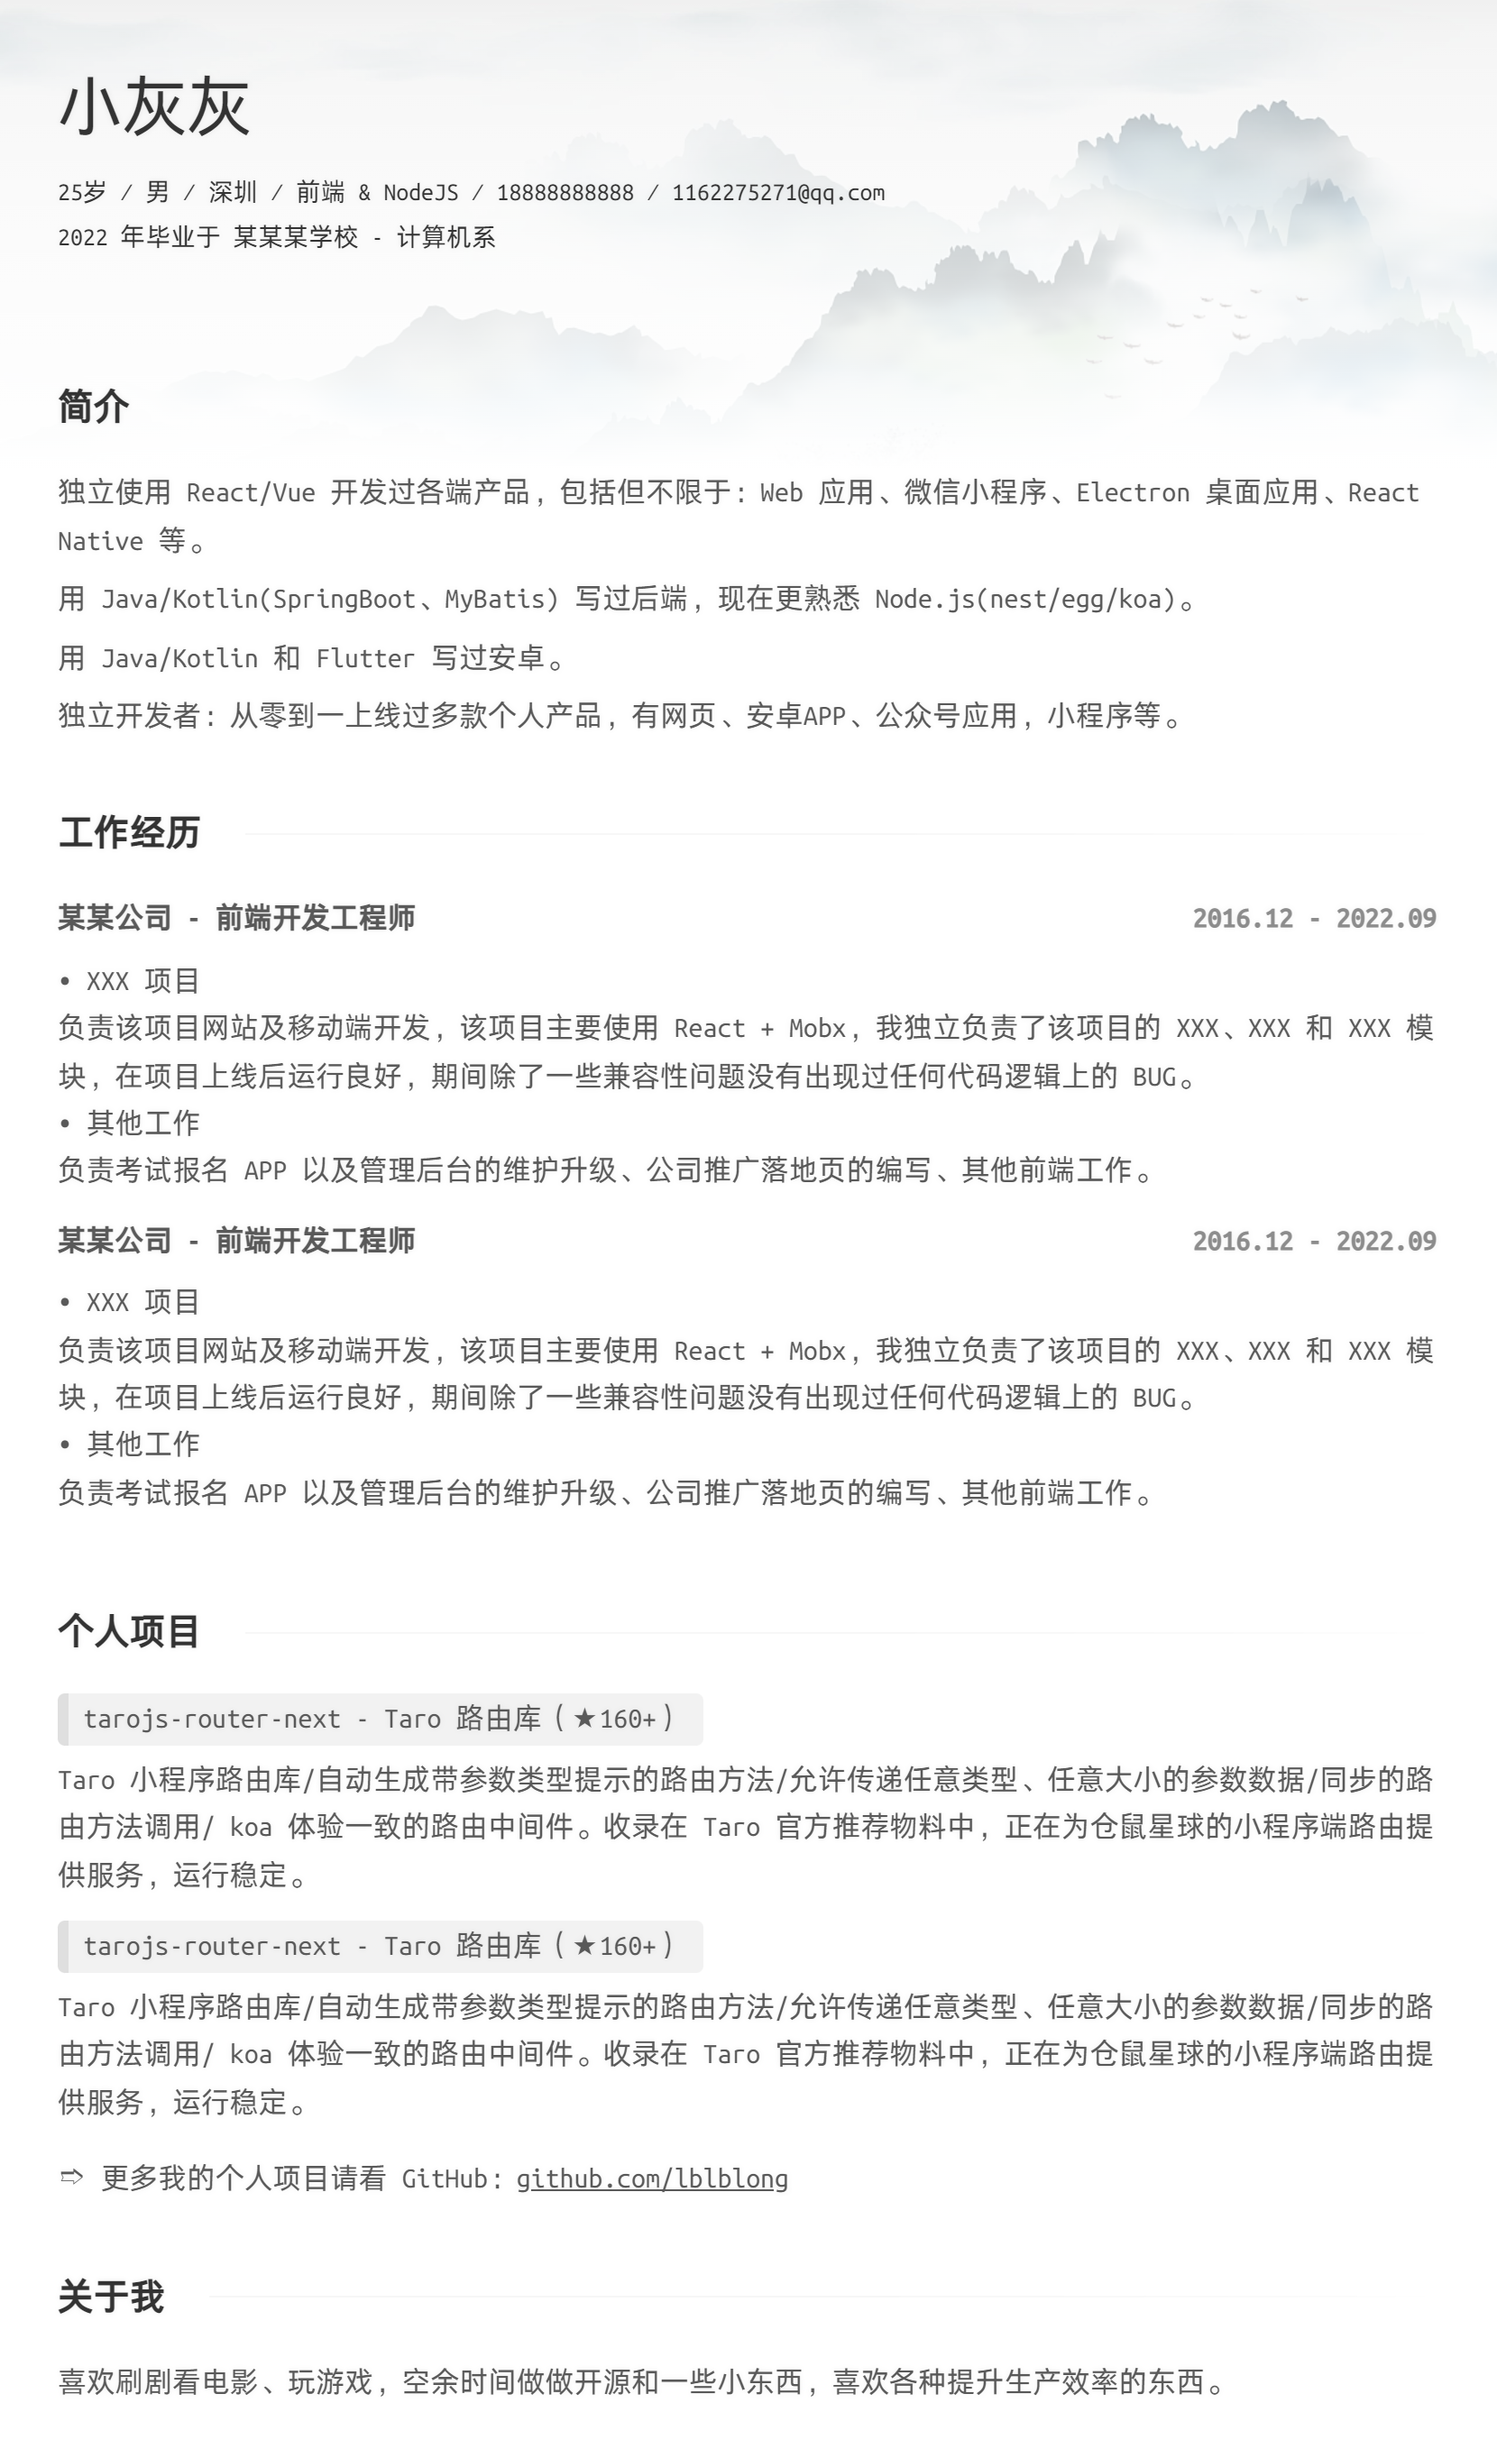
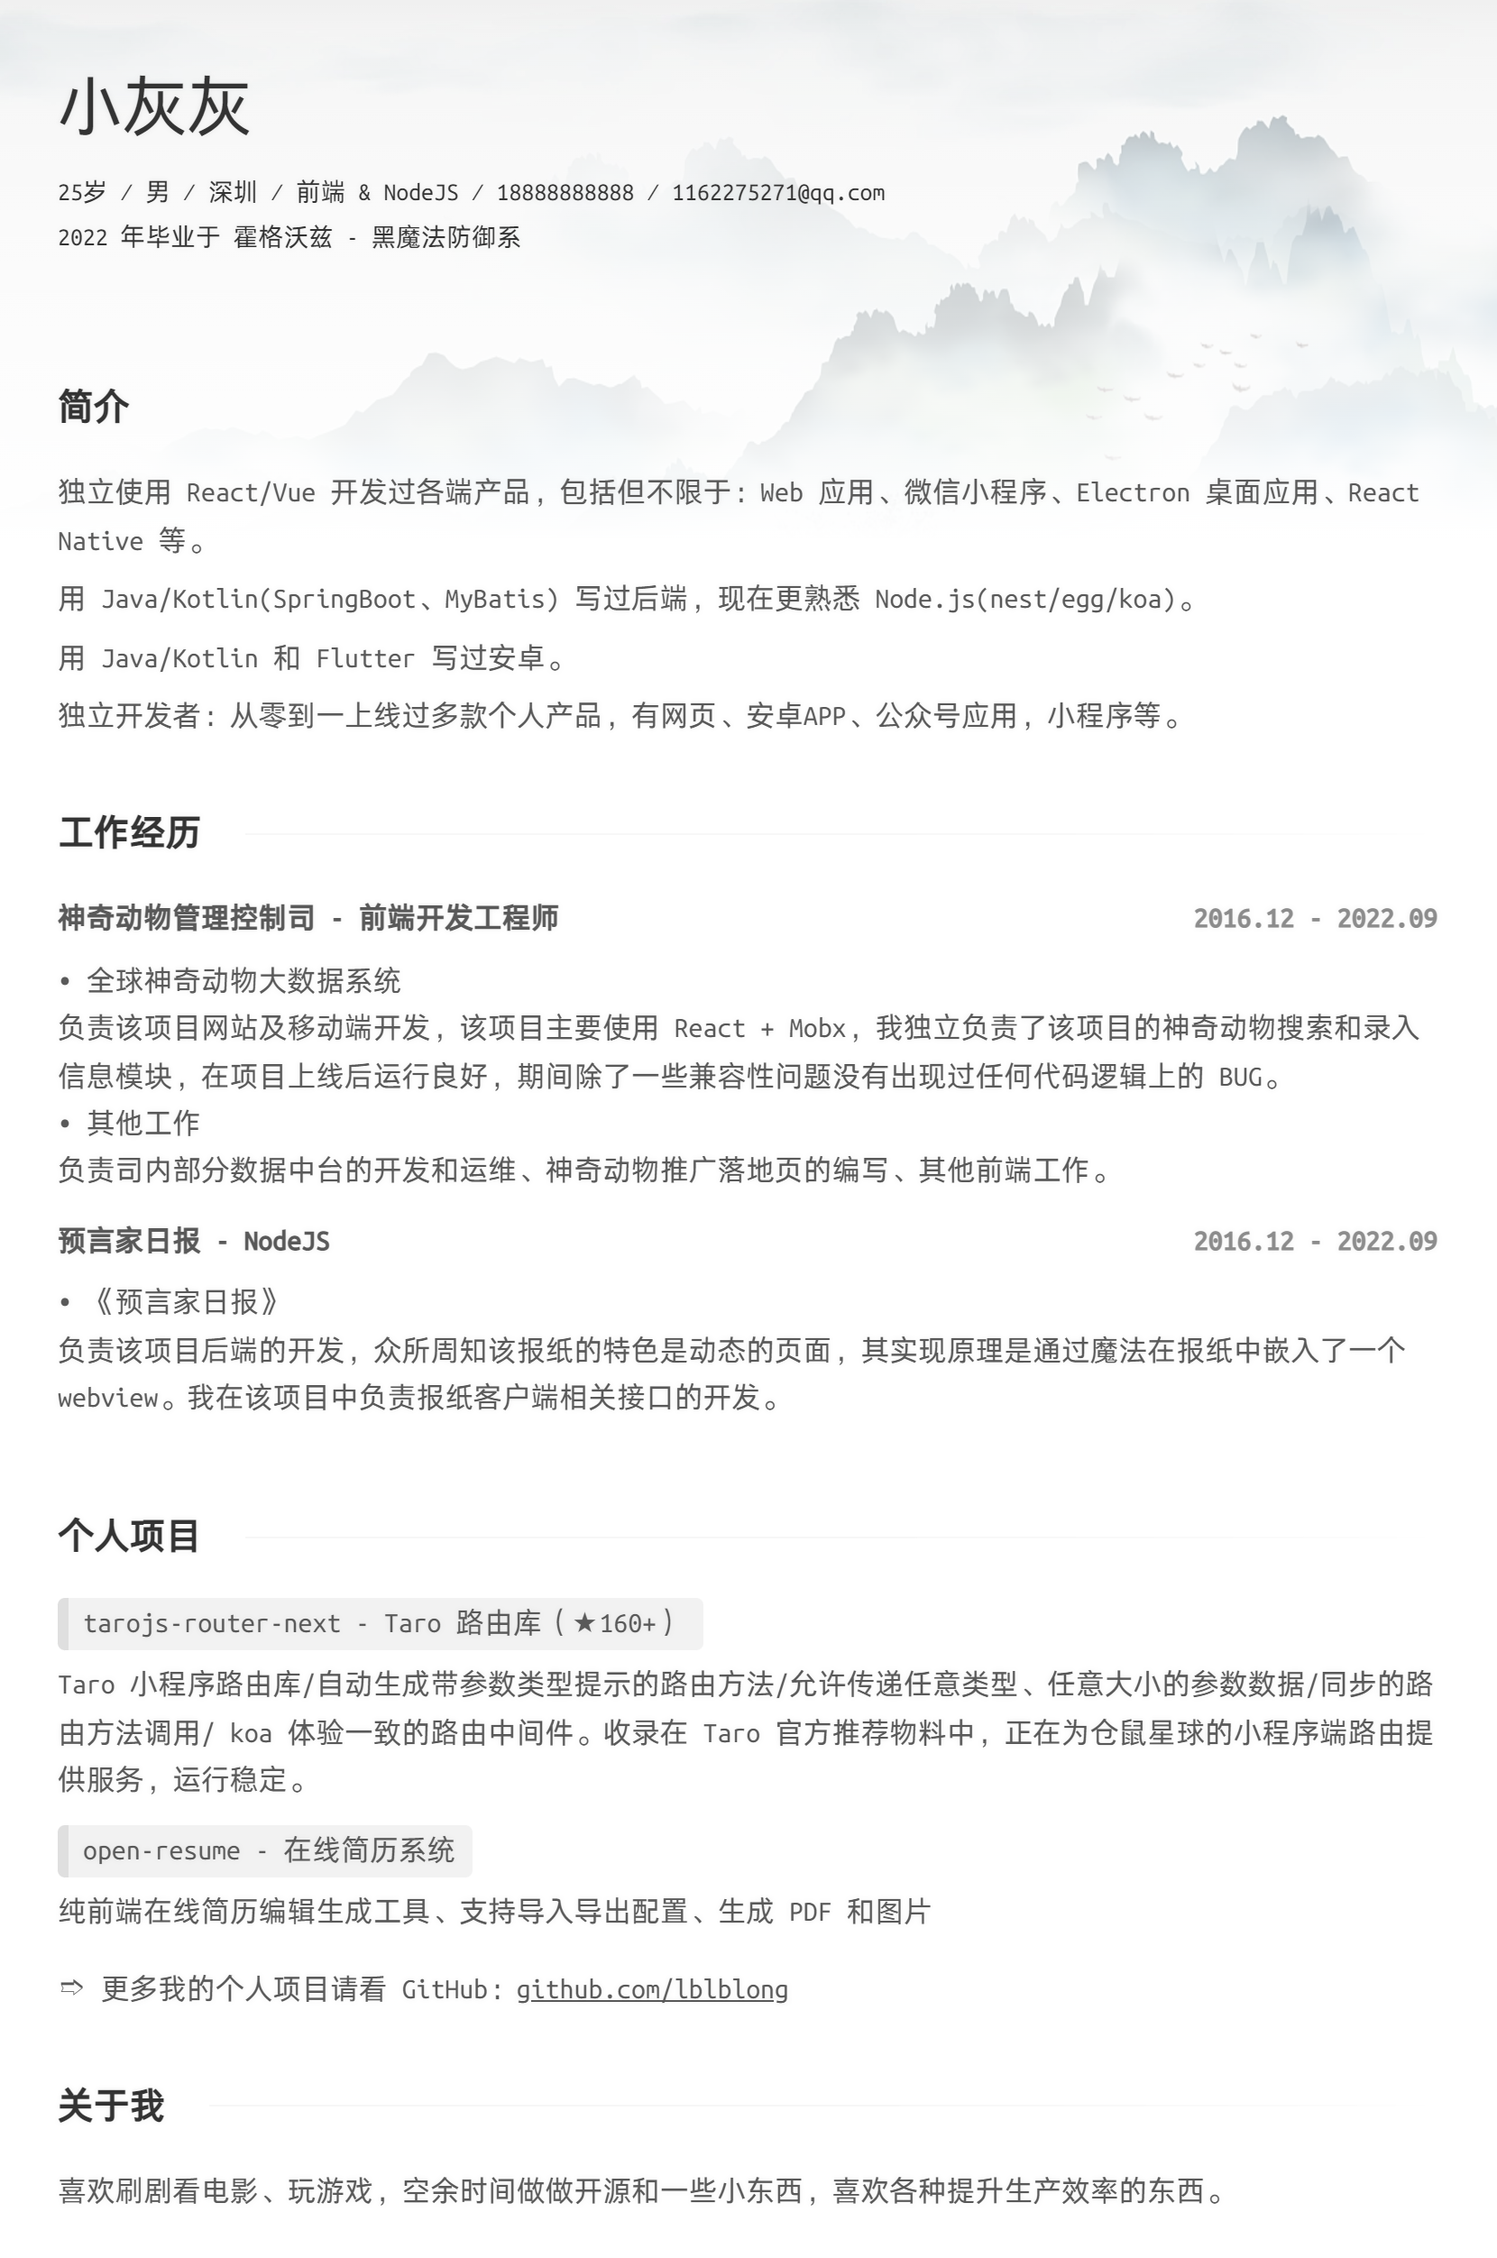
修改默认数据、模板预览图片

diff --git a/src/shared/formily/datas/developer/index.ts b/src/shared/formily/datas/developer/index.ts
@@ -8,9 +8,9 @@ const DEFAULT_DATA = {
   phoneNumber: '18888888888',
   email: '1162275271@qq.com',
   education: {
-    schoolName: '某某某学校',
+    schoolName: '霍格沃兹',
     graduationTime: '2022',
-    major: '计算机系',
+    major: '黑魔法防御系',
   },
   target: '前端 & NodeJS',
   introduce: `独立使用 React/Vue 开发过各端产品，包括但不限于：Web 应用、微信小程序、Electron 桌面应用、React Native 等。\n用 Java/Kotlin(SpringBoot、MyBatis) 写过后端，现在更熟悉 Node.js(nest/egg/koa)。\n用 Java/Kotlin 和 Flutter 写过安卓。\n独立开发者：从零到一上线过多款个人产品，有网页、安卓APP、公众号应用，小程序等。`,
@@ -21,22 +21,22 @@ const DEFAULT_DATA = {
         'Taro 小程序路由库/自动生成带参数类型提示的路由方法/允许传递任意类型、任意大小的参数数据/同步的路由方法调用/ koa 体验一致的路由中间件。收录在 Taro 官方推荐物料中，正在为仓鼠星球的小程序端路由提供服务，运行稳定。',
     },
     {
-      title: 'tarojs-router-next - Taro 路由库（★160+）',
+      title: 'open-resume - 在线简历系统',
       content:
-        'Taro 小程序路由库/自动生成带参数类型提示的路由方法/允许传递任意类型、任意大小的参数数据/同步的路由方法调用/ koa 体验一致的路由中间件。收录在 Taro 官方推荐物料中，正在为仓鼠星球的小程序端路由提供服务，运行稳定。',
+        '纯前端在线简历编辑生成工具、支持导入导出配置、生成 PDF 和图片',
     },
   ],
   github: 'github.com/lblblong',
   workingHistory: [
     {
-      title: '某某公司 - 前端开发工程师',
-      content: `• XXX 项目\n负责该项目网站及移动端开发，该项目主要使用 React + Mobx，我独立负责了该项目的 XXX、XXX 和 XXX 模块，在项目上线后运行良好，期间除了一些兼容性问题没有出现过任何代码逻辑上的 BUG。\n• 其他工作\n负责考试报名 APP 以及管理后台的维护升级、公司推广落地页的编写、其他前端工作。`,
+      title: '神奇动物管理控制司 - 前端开发工程师',
+      content: `• 全球神奇动物大数据系统\n负责该项目网站及移动端开发，该项目主要使用 React + Mobx，我独立负责了该项目的神奇动物搜索和录入信息模块，在项目上线后运行良好，期间除了一些兼容性问题没有出现过任何代码逻辑上的 BUG。\n• 其他工作\n负责司内部分数据中台的开发和运维、神奇动物推广落地页的编写、其他前端工作。`,
       startTime: '2016.12',
       endTime: '2022.09',
     },
     {
-      title: '某某公司 - 前端开发工程师',
-      content: `• XXX 项目\n负责该项目网站及移动端开发，该项目主要使用 React + Mobx，我独立负责了该项目的 XXX、XXX 和 XXX 模块，在项目上线后运行良好，期间除了一些兼容性问题没有出现过任何代码逻辑上的 BUG。\n• 其他工作\n负责考试报名 APP 以及管理后台的维护升级、公司推广落地页的编写、其他前端工作。`,
+      title: '预言家日报 - NodeJS',
+      content: `• 《预言家日报》\n负责该项目后端的开发，众所周知该报纸的特色是动态的页面，其实现原理是通过魔法在报纸中嵌入了一个 webview。我在该项目中负责报纸客户端相关接口的开发。`,
       startTime: '2016.12',
       endTime: '2022.09',
     },

diff --git a/src/shared/formily/datas/normal-sidebar/index.ts b/src/shared/formily/datas/normal-sidebar/index.ts
@@ -10,14 +10,14 @@ const DEFAULT_DATA = {
   introduce: `独立使用 React/Vue 开发过各端产品，包括但不限于：Web 应用、微信小程序、Electron 桌面应用、React Native 等。\n用 Java/Kotlin(SpringBoot、MyBatis) 写过后端，现在更熟悉 Node.js(nest/egg/koa)。\n用 Java/Kotlin 和 Flutter 写过安卓。\n独立开发者：从零到一上线过多款个人产品，有网页、安卓APP、公众号应用，小程序等。`,
   workingHistory: [
     {
-      title: '某某公司 - 前端开发工程师',
-      content: `• XXX 项目\n负责该项目网站及移动端开发，该项目主要使用 React + Mobx，我独立负责了该项目的 XXX、XXX 和 XXX 模块，在项目上线后运行良好，期间除了一些兼容性问题没有出现过任何代码逻辑上的 BUG。\n• 其他工作\n负责考试报名 APP 以及管理后台的维护升级、公司推广落地页的编写、其他前端工作。`,
+      title: '神奇动物管理控制司 - 前端开发工程师',
+      content: `• 全球神奇动物大数据系统\n负责该项目网站及移动端开发，该项目主要使用 React + Mobx，我独立负责了该项目的神奇动物搜索和录入信息模块，在项目上线后运行良好，期间除了一些兼容性问题没有出现过任何代码逻辑上的 BUG。\n• 其他工作\n负责司内部分数据中台的开发和运维、神奇动物推广落地页的编写、其他前端工作。`,
       startTime: '2016.12',
       endTime: '2022.09',
     },
     {
-      title: '某某公司 - 前端开发工程师',
-      content: `• XXX 项目\n负责该项目网站及移动端开发，该项目主要使用 React + Mobx，我独立负责了该项目的 XXX、XXX 和 XXX 模块，在项目上线后运行良好，期间除了一些兼容性问题没有出现过任何代码逻辑上的 BUG。\n• 其他工作\n负责考试报名 APP 以及管理后台的维护升级、公司推广落地页的编写、其他前端工作。`,
+      title: '预言家日报 - NodeJS',
+      content: `• 《预言家日报》\n负责该项目后端的开发，众所周知该报纸的特色是动态的页面，其实现原理是通过魔法在报纸中嵌入了一个 webview。我在该项目中负责报纸客户端相关接口的开发。`,
       startTime: '2016.12',
       endTime: '2022.09',
     },
@@ -25,7 +25,7 @@ const DEFAULT_DATA = {
   sidebar: [
     {
       title: '教育背景',
-      content: `清华大学\n本科\n计算机\n2014-2018`,
+      content: `霍格沃兹\n黑魔法防御系\n2014-2018`,
     },
     {
       title: '求职意向',
